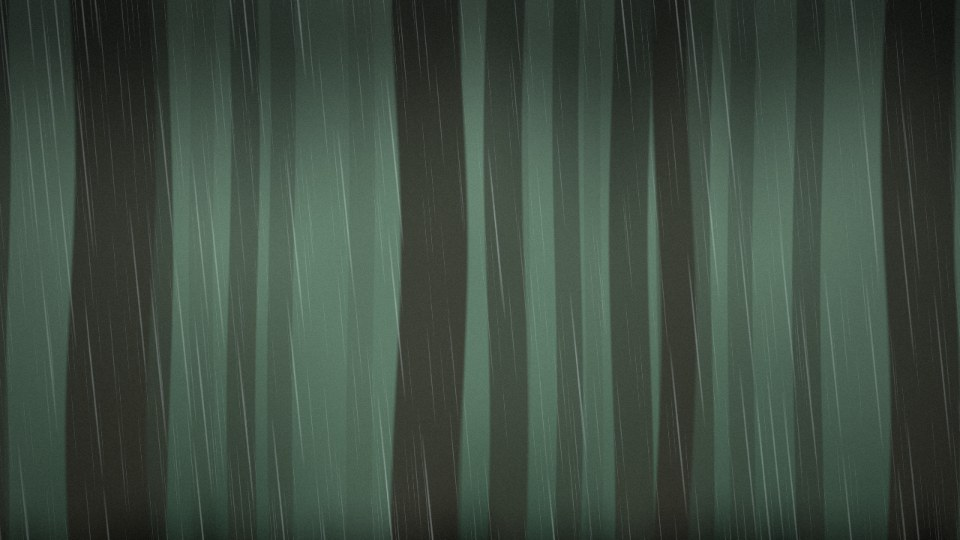
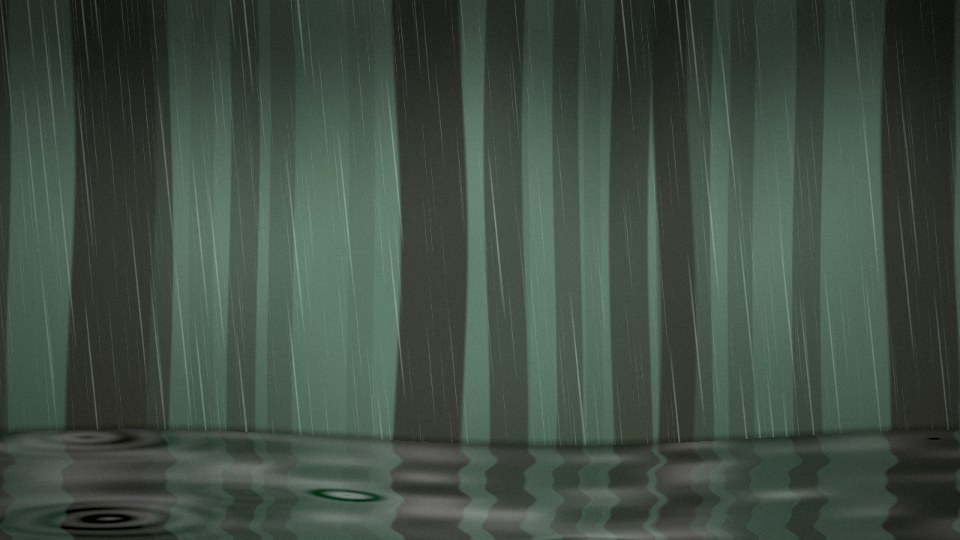
Understory: fix black frames; more rain, a river, rarer thunder, fewer birds

Changed region(s): [[0.0, 0.8, 1.0, 1.0], [0.75, 0.8, 0.9375, 0.9481], [0.9062, 0.9185, 0.9375, 0.9481]]

diff --git a/07-understory-8k.html b/07-understory-8k.html
@@ -10,25 +10,25 @@ float N(vec2 p){
   return mix(mix(H(i),H(i+vec2(1,0)),f.x),mix(H(i+vec2(0,1)),H(i+1.),f.x),f.y);
 }
 void main(){
-  float T=r.z,s=T,R=clamp(.5+.25*sin(T*.021)+.2*sin(T*.047+1.)+.1*sin(T*.13+2.),.15,1.),Q=floor(T/32.),q=s-Q*32.-3.5-mod(Q*13.,17.),L=exp(-q*8.)*step(0.,q)*step(mod(Q*7.+3.,11.),2.5)*(.6+.4*sin(T*60.)),k,x,i,d;
+  float T=r.z,s=T,R=clamp(.5+.25*sin(T*.021)+.2*sin(T*.047+1.)+.1*sin(T*.13+2.),.15,1.),Q=floor(T/32.),q=s-Q*32.-3.5-mod(Q*13.,17.),L=exp(-max(q,0.)*8.)*step(0.,q)*step(mod(Q*7.+3.,11.),2.5)*(.6+.4*sin(T*60.)),k,x,i,d;
   vec2 u=(gl_FragCoord.xy*2.-r.xy)/r.y,p;
   float l=dot(u,u);
-  u+=m*.3;
+  u+=m*.3+vec2(0,.012*sin(T*1.9));
   float w=u.y+.62+.03*sin(u.x*2.+1.);
   if(w<0.){u.y=-u.y-1.24;u.x+=.02*sin(u.y*40.+T*3.)+.01*sin(u.y*90.-T*5.);}
-  vec3 f=mix(vec3(.04,.1,.06),vec3(.3,.48,.36),.5+.4*u.y+.2*N(u*2.+T*.05))*(1.-.4*R)+L*1.2,c=f;
-  for(int j=0;j<5;j++){
-    k=5.-float(j);
+  vec3 f=mix(vec3(.04,.1,.06),vec3(.3,.48,.36),.5+.4*u.y+.2*N(u*2.+T*.05))*mix(vec3(1),vec3(.55,.62,.75),R)+L*1.2,c=f;
+  for(int j=0;j<7;j++){
+    k=7.-float(j);
     x=u.x*(.5+k*.6)+T*.3/k+k*7.;
     i=floor(x);
     d=abs(fract(x)-.5+(H(vec2(i,k+9.))-.5)*.5+.02*sin(u.y*3.+i))-.05-.12*H(vec2(i,k));
-    c=mix(c,mix(vec3(.04,.03,.02),f,k/6.),(1.-smoothstep(0.,.02,d))*step(.35,H(vec2(i,k+3.))));
+    c=mix(c,mix(vec3(.04,.03,.02)+.03*H(vec2(i,k+5.))*vec3(.3,1,.2),f*(.85+.3*N(vec2(x*.4+T*.03,k))),k/8.),(1.-smoothstep(0.,.02,d))*step(.35,H(vec2(i,k+3.))));
   }
-  c*=1.-.8*smoothstep(.2,1.1,u.y+.3*N(vec2(u.x*4.,T*.1)));
+  c*=1.-.8*smoothstep(.2,1.1,u.y+.3*N(vec2(u.x*4.,T*.1))+.12*N(vec2(u.x*17.,3.+T*.2)));
   if(w<0.){
     p=vec2(u.x,w*6.);
-    c=c*.6+.2*pow(N(vec2(p.x*3.-T*.9,p.y*4.+T*.2)),3.);
-    for(int j=0;j<6;j++){
+    c=c*.6+.2*pow(N(vec2(p.x*3.-T*.9,p.y*4.+T*.2)),3.)+.12*pow(N(vec2(p.x*9.-T*1.6,p.y*12.)),6.);
+    for(int j=0;j<10;j++){
       k=float(j);x=fract(T*.7+k*.37);
       i=length(p-(vec2(H(vec2(k,floor(T*.7+k*.37))),H(vec2(k+9.,floor(T*.7+k*.37))))*2.-1.)*vec2(1.7,1.1)+vec2(0,1.2));
       c+=.5*R*sin(40.*i-x*30.)*exp(-i*4.)*(1.-x)*clamp((x-i)*9.,0.,1.);
@@ -37,7 +37,7 @@ void main(){
   c*=.5+.5*smoothstep(0.,.03,abs(w));
   for(int j=0;j<3;j++){
     k=float(j);
-    p=vec2(u.x*(20.+k*15.)+u.y*(2.+k),u.y*(1.5+k)+T*(6.+k*3.));
+    p=vec2(u.x*(20.+k*15.)+u.y*(2.+k+2.*sin(T*.31)),u.y*(1.5+k)+T*(6.+k*3.));
     p.y+=H(vec2(floor(p.x),k))*9.;x=fract(p.y);
     c+=vec3(.6,.7,.7)*step(1.-R*.5,H(floor(p)))*(1.-smoothstep(0.,.1,abs(fract(p.x)-.5)))*x*(1.-x)/(1.+k)*step(0.,w);
   }
@@ -63,7 +63,7 @@ A.onstatechange=P=_=>{
 };
 setInterval(P,200);
 (async _=>{
-  let R=A.sampleRate,L=R*16,X=[new Float32Array(1<<17),new Float32Array(1<<17)],n=0,i,j,k,t,b,D,v,w,u,e,f,q,x,o,c,S,K,Y,H,h=[0,0],lo=[0,0],b1=[0,0],l1=[0,0],rb=[0,0],rl=[0,0],wn=[0,0],be=[0,0,0,0],bf=[0,0,0,0],bp=[0,0,0,0],th=0,a,z;
+  let R=A.sampleRate,L=R*16,X=[new Float32Array(1<<17),new Float32Array(1<<17)],n=0,i,j,k,t,b,D,v,w,u,e,f,q,x,o,c,S,K,Y,H,h=[0,0],lo=[0,0],b1=[0,0],l1=[0,0],b2=[0,0],l2=[0,0],rb=[0,0],rl=[0,0],wn=[0,0],sh=[0,0],de=[0,0],df=[0,0],dp=[0,0],be=[0,0,0,0,0,0],bf=[0,0,0,0,0,0],bp=[0,0,0,0,0,0],th=0,a,z,y,G;
   for(;;n++){
     while(n>performance.now()/16e3+2)await new Promise(r=>setTimeout(r,400));
     n=Math.max(n,performance.now()/16e3|0);
@@ -72,34 +72,44 @@ setInterval(P,200);
       i%3e4||await new Promise(setTimeout);
       j=n*L+i;t=j/R;u=0;
       a=Math.min(1,Math.max(.15,.5+.25*Math.sin(t*.021)+.2*Math.sin(t*.047+1)+.1*Math.sin(t*.13+2)));
+      G=Math.max(0,Math.sin(t*.31)*Math.sin(t*.07));
       w=Math.random()-.5;
       S=t/32|0;q=t%32-5-S*13%17;
       v=0;
       if((S*7+3)%11<3&&q>0){
         e=S&1;
         th+=(w-th)*.02;
-        v=th*Math.exp(-q*.35)*Math.min(1,q*(e?1.5:30))*(1+.6*Math.sin(q*7+2*Math.sin(q*3)))*(e?5:9)+(e?0:w*Math.exp(-q*9)*.8)
+        v=th*Math.exp(-q*.35)*Math.min(1,q*(e?1.5:30))*(1+.6*Math.sin(q*7+2*Math.sin(q*3)))*(e?5:9)+(e?0:w*(Math.exp(-q*9)+.5*Math.exp(-q*7%1*8-q*2.5))*.8)
       }
       x=t%19;
       if(a<.4&&x<.12&&(t/19&3)<1)v+=Math.sin((15e3+4e4*x)*x)*Math.sin(x*26)*.03;
       for(k=0;k<2;k++){
         w=Math.random()-.5;
+        sh[k]+=(Math.random()-.5-sh[k])*5e-4;
+        z=a*(1+sh[k]*25+G*.3);
         h[k]+=(w-h[k])*.3;lo[k]+=(w-lo[k])*.02;
-        o=(w-h[k])*a*.7+h[k]*a*.45+lo[k]*a*a*1.6;
+        o=(w-h[k])*z*.7+h[k]*z*.45+lo[k]*z*z*1.6;
         c=(2800+k*900)*6.3/R;
-        b1[k]+=c*((Math.random()<a*.02?Math.random()-.5:0)*3-l1[k]-b1[k]*.3);l1[k]+=c*b1[k];
-        o+=b1[k]*.5;
+        b1[k]+=c*((Math.random()<z*.02?Math.random()-.5:0)*3-l1[k]-b1[k]*.3);l1[k]+=c*b1[k];
+        c=(1100+k*300)*6.3/R;
+        b2[k]+=c*((Math.random()<z*.008?Math.random()-.5:0)*4-l2[k]-b2[k]*.25);l2[k]+=c*b2[k];
+        o+=b1[k]*.5+b2[k]*.4;
+        if(Math.random()<4/R)de[k]=1,df[k]=(2500+Math.random()*3e3)*6.283/R,dp[k]=0;
+        dp[k]+=df[k];df[k]*=1-6/R;de[k]*=1-30/R;
+        o+=Math.sin(dp[k])*de[k]*.08;
         c=600*6.3/R;
         rb[k]+=c*(w-rl[k]-rb[k]*.8);rl[k]+=c*rb[k];
-        o+=rb[k]*.6;
-        for(q=0;q<2;q++){
-          z=k*2+q;
-          if(Math.random()<8/R)be[z]=.5+Math.random()*.5,bf[z]=(500+Math.random()*900)*6.283/R,bp[z]=0;
-          bp[z]+=bf[z];bf[z]*=1+2/R;be[z]*=1-25/R;
-          o+=Math.sin(bp[z])*be[z]*.025
+        o+=rb[k]*.6+rl[k]*.25;
+        for(q=0;q<3;q++){
+          y=k*3+q;
+          if(Math.random()<(5+9*a)/R)be[y]=.5+Math.random()*.5,bf[y]=(500+Math.random()*900)*6.283/R,bp[y]=0;
+          bp[y]+=bf[y];bf[y]*=1+2/R;be[y]*=1-25/R;
+          o+=Math.sin(bp[y])*be[y]*.025
         }
-        wn[k]+=(Math.random()-.5-wn[k])*.004;o+=wn[k]*(1+Math.sin(t*.31+k))*2;
-        D[k][i]=Math.tanh((o+v)*1.3)
+        wn[k]+=(Math.random()-.5-wn[k])*.004;o+=wn[k]*(1+Math.sin(t*.31+k)+G*2)*2;
+        y=v+X[1-k][j-(R*(.37+k*.11)|0)&131071]*.5;
+        X[k][j&131071]=y;
+        D[k][i]=Math.tanh((o+y)*1.3)
       }
     }
     B[n]=b;delete B[n-3]

diff --git a/07-understory.html b/07-understory.html
@@ -10,11 +10,13 @@ float N(vec2 p){
   return mix(mix(H(i),H(i+vec2(1,0)),f.x),mix(H(i+vec2(0,1)),H(i+1.),f.x),f.y);
 }
 void main(){
-  float T=r.z,s=mod(T,128.),R=.25+.75*pow(.5-.5*cos(T*.0491),2.),L=exp(-fract((s-52.)/11.)*33.)*step(52.,s)*step(s,85.),k,x,i,d;
+  float T=r.z,s=mod(T,128.),R=.25+.75*pow(.5-.5*cos(T*.0491),2.),L=exp(-max(s-64.,0.)*8.)*step(64.,s)*(.6+.4*sin(T*60.)),k,x,i,d;
   vec2 u=(gl_FragCoord.xy*2.-r.xy)/r.y,p;
   float l=dot(u,u);
   u+=m*.3;
-  vec3 f=mix(vec3(.04,.1,.06),vec3(.3,.48,.36),.5+.4*u.y+.2*N(u*2.+T*.05))*(1.-.4*R)+L*.5,c=f;
+  float w=u.y+.62+.03*sin(u.x*2.+1.);
+  if(w<0.){u.y=-u.y-1.24;u.x+=.02*sin(u.y*40.+T*3.)+.01*sin(u.y*90.-T*5.);}
+  vec3 f=mix(vec3(.04,.1,.06),vec3(.3,.48,.36),.5+.4*u.y+.2*N(u*2.+T*.05))*(1.-.4*R)+L*1.2,c=f;
   for(int j=0;j<5;j++){
     k=5.-float(j);
     x=u.x*(.5+k*.6)+T*.3/k+k*7.;
@@ -23,12 +25,21 @@ void main(){
     c=mix(c,mix(vec3(.04,.03,.02),f,k/6.),(1.-smoothstep(0.,.02,d))*step(.35,H(vec2(i,k+3.))));
   }
   c*=1.-.8*smoothstep(.2,1.1,u.y+.3*N(vec2(u.x*4.,T*.1)));
-  c*=smoothstep(-1.1,-.75,u.y+.1*N(vec2(u.x*9.,1)));
+  if(w<0.){
+    p=vec2(u.x,w*6.);
+    c=c*.6+.2*pow(N(vec2(p.x*3.-T*.9,p.y*4.+T*.2)),3.);
+    for(int j=0;j<6;j++){
+      k=float(j);x=fract(T*.7+k*.37);
+      i=length(p-(vec2(H(vec2(k,floor(T*.7+k*.37))),H(vec2(k+9.,floor(T*.7+k*.37))))*2.-1.)*vec2(1.7,1.1)+vec2(0,1.2));
+      c+=.5*R*sin(40.*i-x*30.)*exp(-i*4.)*(1.-x)*clamp((x-i)*9.,0.,1.);
+    }
+  }
+  c*=.5+.5*smoothstep(0.,.03,abs(w));
   for(int j=0;j<3;j++){
     k=float(j);
     p=vec2(u.x*(20.+k*15.)+u.y*(2.+k),u.y*(1.5+k)+T*(6.+k*3.));
     p.y+=H(vec2(floor(p.x),k))*9.;x=fract(p.y);
-    c+=vec3(.6,.7,.7)*step(1.-R*.5,H(floor(p)))*(1.-smoothstep(0.,.1,abs(fract(p.x)-.5)))*x*(1.-x)/(1.+k);
+    c+=vec3(.6,.7,.7)*step(1.-R*.5,H(floor(p)))*(1.-smoothstep(0.,.1,abs(fract(p.x)-.5)))*x*(1.-x)/(1.+k)*step(0.,w);
   }
   gl_FragColor=vec4(sqrt(c)*(1.-.1*l)+fract(sin(dot(gl_FragCoord.xy,vec2(12.9,78.2))+T)*4e4)*.04-.02,1);
 }`]].map(([t,s])=>{h=g.createShader(t);g.shaderSource(h,s);g.compileShader(h);g.attachShader(p,h)});
@@ -45,23 +56,27 @@ onmousemove=e=>g.uniform2f(V,e.x/innerWidth-.5,.5-e.y/innerHeight);
 onclick=_=>A.resume();
 A.onstatechange=P=_=>B&&!s&&A.state<'s'&&(s=A.createBufferSource(),s.buffer=B,s.loop=1,s.connect(A.destination),s.start(0,performance.now()/1e3%128));
 (async _=>{
-  let k,D,i,t,v,w,a,e,q,x,n,h,lo,th,dp,de,df,R=24e3,L=R*128,b=A.createBuffer(2,L,R);
+  let k,D,i,t,v,w,a,e,q,x,n,h,lo,th,dp,de,df,b1,l1,rb,rl,bp,be,bf,R=24e3,L=R*128,b=A.createBuffer(2,L,R);
   for(k=0;k<2;k++){
-    D=b.getChannelData(k);n=h=lo=th=dp=de=df=0;
+    D=b.getChannelData(k);n=h=lo=th=dp=de=df=b1=l1=rb=rl=bp=be=bf=0;
     for(i=0;i<L;i++){
       i%5e4||await new Promise(setTimeout);
       t=i/R;a=.25+.75*(.5-.5*Math.cos(t*.0491))**2;
       w=Math.random()-.5;
       h+=(w-h)*.3;lo+=(w-lo)*.02;
-      v=(w-h)*a*.5+h*a*.35+lo*a*a*1.2;
+      v=(w-h)*a*.7+h*a*.45+lo*a*a*1.6;
+      e=.72+k*.2;b1+=e*((Math.random()<a*.02?Math.random()-.5:0)*3-l1-b1*.3);l1+=e*b1;v+=b1*.5;
+      rb+=.157*(w-rl-rb*.8);rl+=.157*rb;v+=rb*.6;
+      if(Math.random()<3e-4)be=.6,bf=.13+Math.random()*.25,bp=0;
+      bp+=bf;bf*=1.0001;be*=.999;v+=Math.sin(bp)*be*.03;
       n+=(Math.random()-.5-n)*.004;v+=n*(1+Math.sin(t*.31+k))*2;
       if(Math.random()<1.5e-4)de=1,df=.2+Math.random()*.5,dp=0;
-      dp+=df;df*=.9997;de*=.9985;v+=Math.sin(dp)*de*.12;
-      e=t%128;q=e>53.5&&e<92?(e-53.5)%11:9;
-      th+=(w-th)*.02;v+=th*Math.exp(-q*.5)*Math.min(1,q*4)*(1+.5*Math.sin(q*9))*5;
-      x=t*1.7%1;
-      if(a<.5&&x<.12)v+=Math.sin((15e3+4e4*x)*x/1.7*(1+(t*11.9%3|0)*.2))*Math.sin(x*26)*(.5-a)*.12;
-      D[i]=v
+      dp+=df;df*=.9997;de*=.9985;v+=Math.sin(dp)*de*.1;
+      q=t>65.5?t-65.5:99;
+      th+=(w-th)*.02;v+=th*Math.exp(-q*.35)*Math.min(1,q*4)*(1+.6*Math.sin(q*7+2*Math.sin(q*3)))*6;
+      x=t%7;
+      if(a<.5&&x<.12)v+=Math.sin((15e3+4e4*x)*x)*Math.sin(x*26)*(.5-a)*.04;
+      D[i]=Math.tanh(v*1.3)
     }
   }
   B=b;P()

diff --git a/index.html b/index.html
@@ -156,8 +156,8 @@ const PIECES = [
   { file: '06-ember.html', thumb: 'thumbs/06-ember.jpg', theme: 'Ember', track: 'Slow Burn', bytes: 3674,
     more: [{ label: '8K', limit: 8192, file: '06-ember-8k.html', bytes: 4887 }] },
   // noMusic: the piece has natural sound only, so the site labels it "sound" instead of "music"
-  { file: '07-understory.html', thumb: 'thumbs/07-understory.jpg', theme: 'Understory', track: 'Rain', noMusic: true, bytes: 3320,
-    more: [{ label: '8K', limit: 8192, file: '07-understory-8k.html', bytes: 5021 }] },
+  { file: '07-understory.html', thumb: 'thumbs/07-understory.jpg', theme: 'Understory', track: 'Rain', noMusic: true, bytes: 4083,
+    more: [{ label: '8K', limit: 8192, file: '07-understory-8k.html', bytes: 5860 }] },
 ];
 
 const $ = id => document.getElementById(id);
